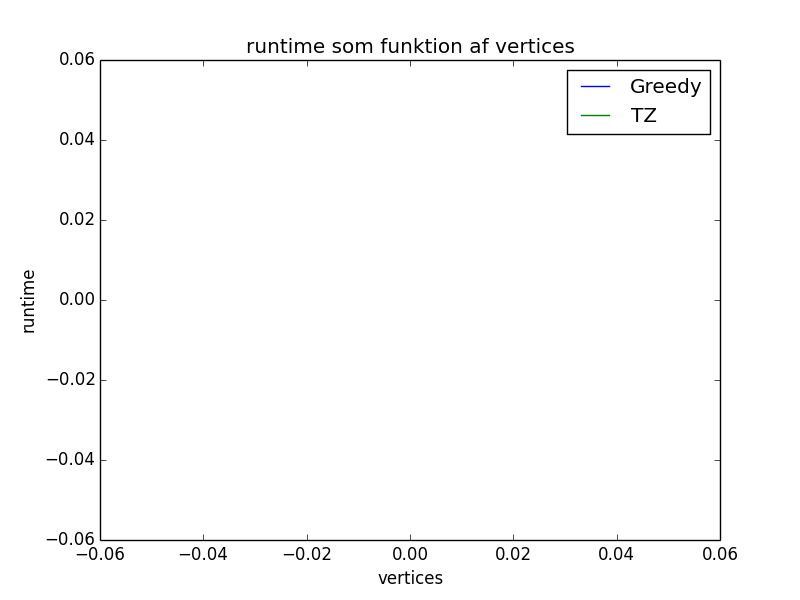
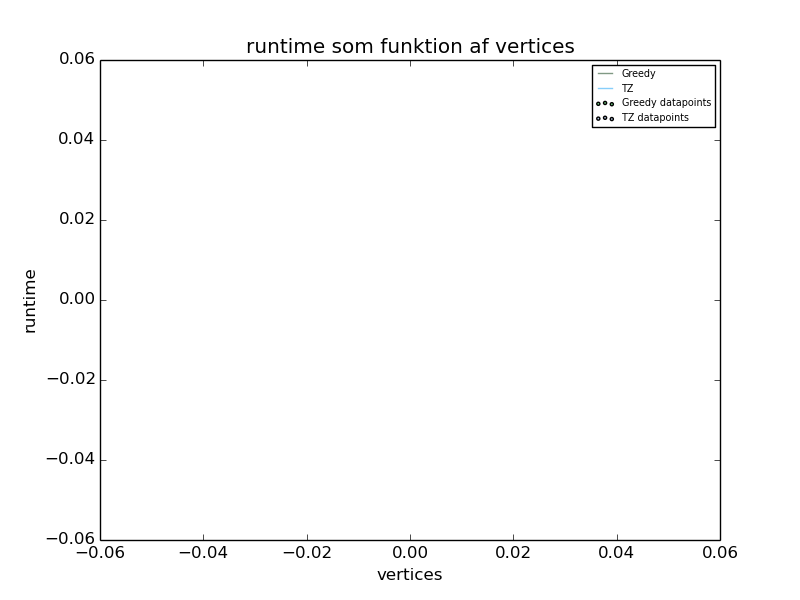
640K ought to be enough for anybody

diff --git a/analyze_data.py b/analyze_data.py
@@ -193,26 +193,26 @@ def plot_points():
 
             # Put the datapoints in the back
             plt.scatter(x, greedy, marker=".", c="#70CC80", label="Greedy datapoints")
-            plt.scatter(x, tz, marker=".", c="lightsteelsky", label="TZ datapoints", )
+            plt.scatter(x, tz, marker=".", c="#B0C4DE", label="TZ datapoints", )
 
             # Put in error bars for deviation
-            plt.errorbar(x, greedy_mean, greedy_dev, linestyle='None', marker='^', c="#809984")
-            plt.errorbar(x, tz_mean, tz_dev, linestyle='None', marker='^', c="lightbluesky")
+            #plt.errorbar(x, greedy_mean, greedy_dev, linestyle='None', marker='^', c="#809984")
+            #plt.errorbar(x, tz_mean, tz_dev, linestyle='None', marker='^', c="#87CEFA")
 
             # Put means on top of datapoints
-            plt.scatter(x, greedy_mean, marker="o", c="#809984", label="Greedy mean with deviation")
-            plt.scatter(x, tz_mean, marker="o", c="lightbluesky", label="TZ mean with deviation")
+            #plt.scatter(x, greedy_mean, marker="o", c="#809984", label="Greedy mean with deviation")
+            #plt.scatter(x, tz_mean, marker="o", c="#87CEFA", label="TZ mean with deviation")
 
             # Finally add the plots on the top layer
             plt.plot(x, greedy, label='Greedy', c="#809984")
-            plt.plot(x, tz, label='TZ', c="lightbluesky")
+            plt.plot(x, tz, label='TZ', c="#87CEFA")
 
             max_greedy = max(greedy)
             max_tz = max(tz)
             y_lim = max_greedy if max_tz < max_greedy else max_tz
 
             #plt.axes([0, int(math.ceil(max(y_lim))), 0, int(math.ceil(max(x)))])
-            plt.legend()
+            plt.legend(fontsize="xx-small")
 
 
             plt.savefig("plots/" + p + "_"+ m)
